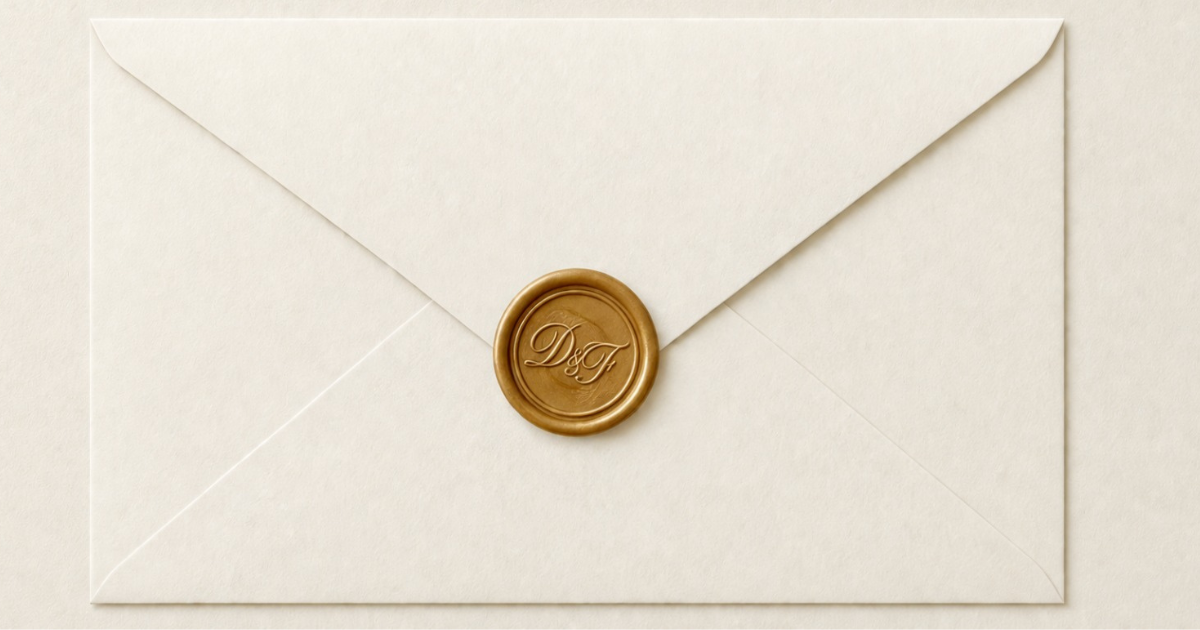
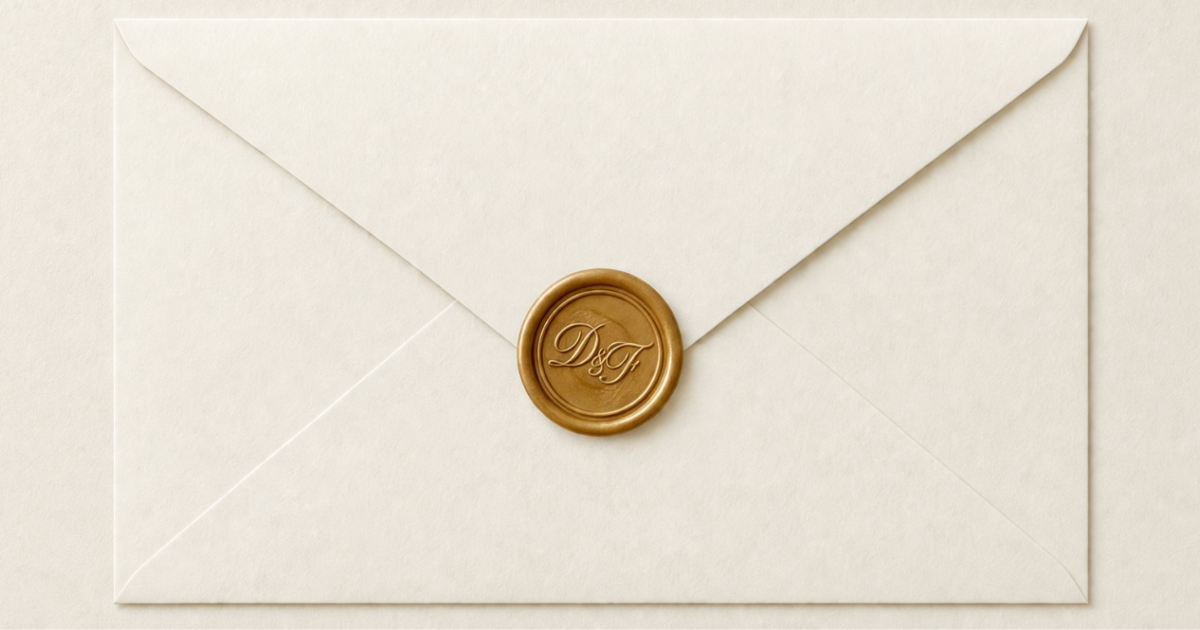
new version

diff --git a/index.html b/index.html
@@ -1,5 +1,5 @@
 <!doctype html>
-<html lang="en">
+<html lang="pt">
   <head>
     <meta charset="UTF-8" />
     <link rel="icon" type="image/png" href="/favicon.png" />
@@ -30,6 +30,13 @@
       name="twitter:image"
       content="https://franciscaedaniel.pt/og-image.png"
     />
+    <meta
+      property="og:image:secure_url"
+      content="https://franciscaedaniel.pt/og-image.png"
+    />
+    <meta property="og:image:type" content="image/png" />
+    <meta property="og:image:width" content="1200" />
+    <meta property="og:image:height" content="630" />
 
     <link
       href="https://fonts.googleapis.com/css2?family=Urbanist:wght@300;400;500;600;700;800&display=swap"
